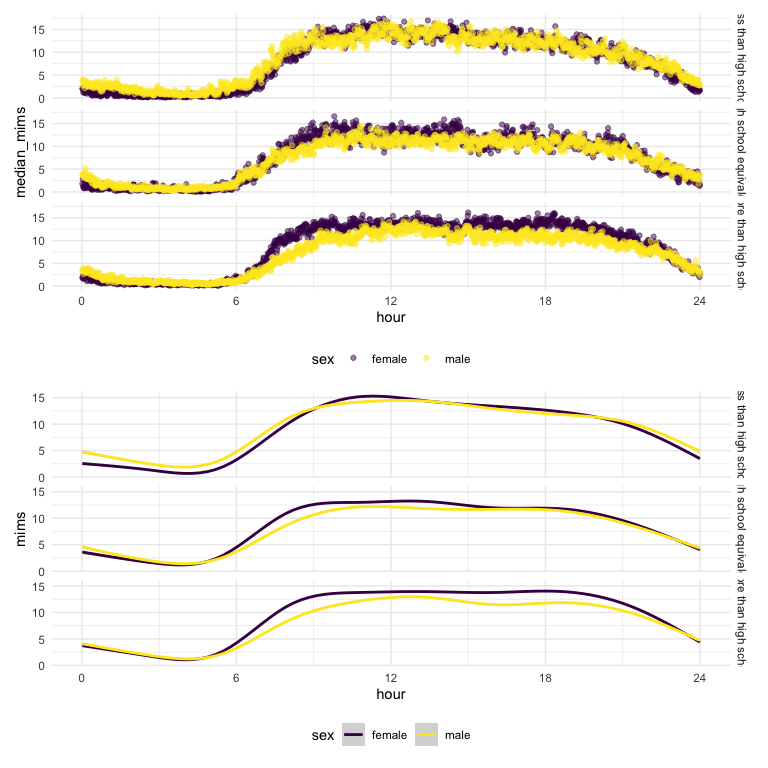
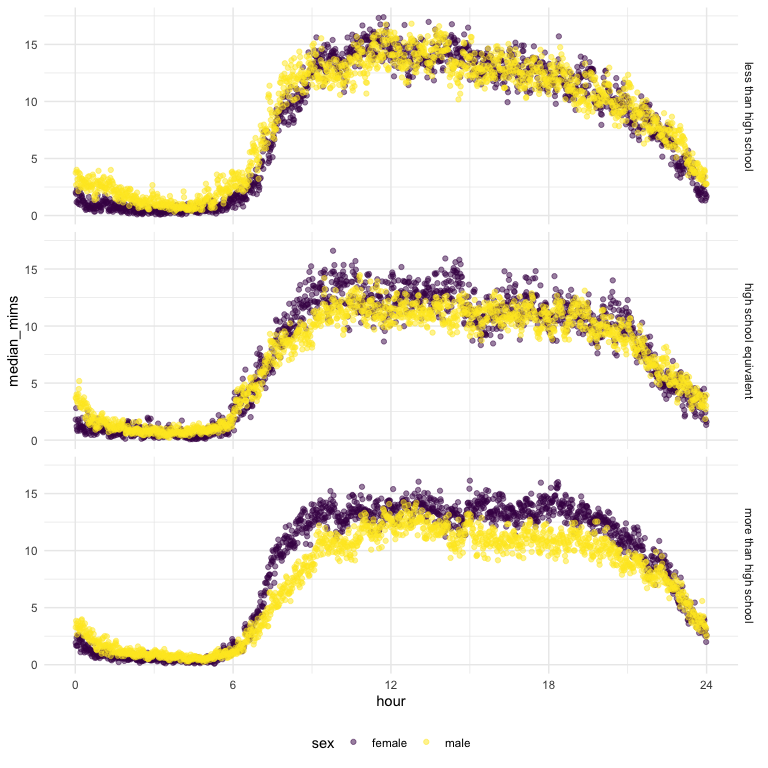
adjusting graphic

diff --git a/p8105_hw3_sc5826.md b/p8105_hw3_sc5826.md
@@ -573,7 +573,7 @@ in words any patterns or conclusions you can make based on this graph;
 including smooth trends may help identify differences.
 
 ``` r
-median_mims = nhanes |> 
+nhanes |> 
   group_by(sex, education, hour) |>
   summarize(
     median_mims = median(mims)
@@ -584,23 +584,25 @@ median_mims = nhanes |>
   facet_grid(education~.) 
 ## `summarise()` has grouped output by 'sex', 'education'. You can override using
 ## the `.groups` argument.
+```
 
-smoothed_mims = nhanes |> 
+<img src="p8105_hw3_sc5826_files/figure-gfm/unnamed-chunk-20-1.png" width="95%" />
+
+``` r
+nhanes |> 
   ggplot(aes(x = hour, y = mims, color = sex)) +
   geom_smooth() +
   scale_x_continuous(breaks = seq(0, 24, by = 6)) +
   facet_grid(education~.)
-
-median_mims/smoothed_mims
 ## `geom_smooth()` using method = 'gam' and formula = 'y ~ s(x, bs = "cs")'
 ```
 
-<img src="p8105_hw3_sc5826_files/figure-gfm/unnamed-chunk-20-1.png" width="95%" />
+<img src="p8105_hw3_sc5826_files/figure-gfm/unnamed-chunk-20-2.png" width="95%" />
 Plotting both the median of MIMS data across all participants at each
 time point and a smoothed line show similar trends. Activity is at the
-lowest between 0-6 hours. From 6-12 hours, activity rises and stays
-pretty flat through hour 18. From hours 18-24, activity decreases. At
-the less than high school level, male and female activity track closely.
-However at the equivalent to and more than high school levels, female
-activity appears higher than male activity at around hour 8. At other
-hours, male and female activity is pretty close.
+lowest between hour 0-6 From hour 6-12, activity rises and stays pretty
+flat through hour 18. From hours 18-24, activity decreases. At the less
+than high school level, male and female activity track closely. At the
+high school equivalent level, female activity is higher from hours 9 to
+15 compared to male activity. At the more than high school level, female
+activity is consistently higher than male activity from hour 6 to 20.
